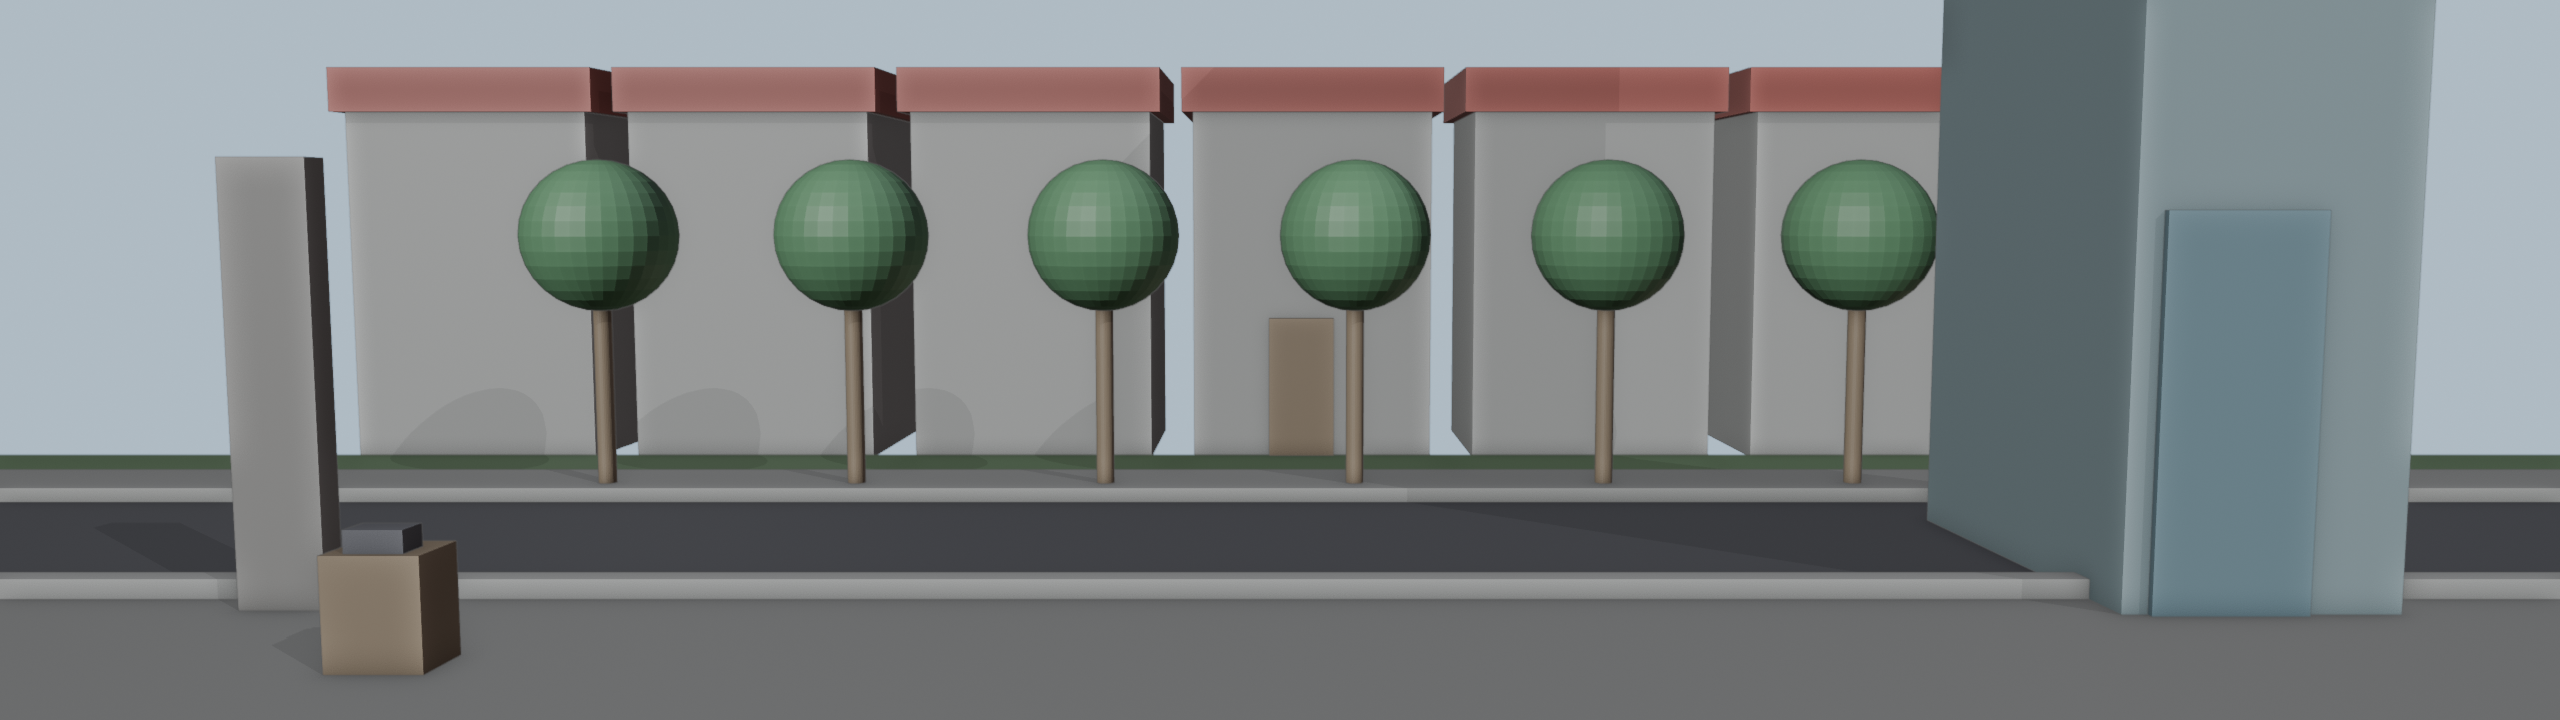
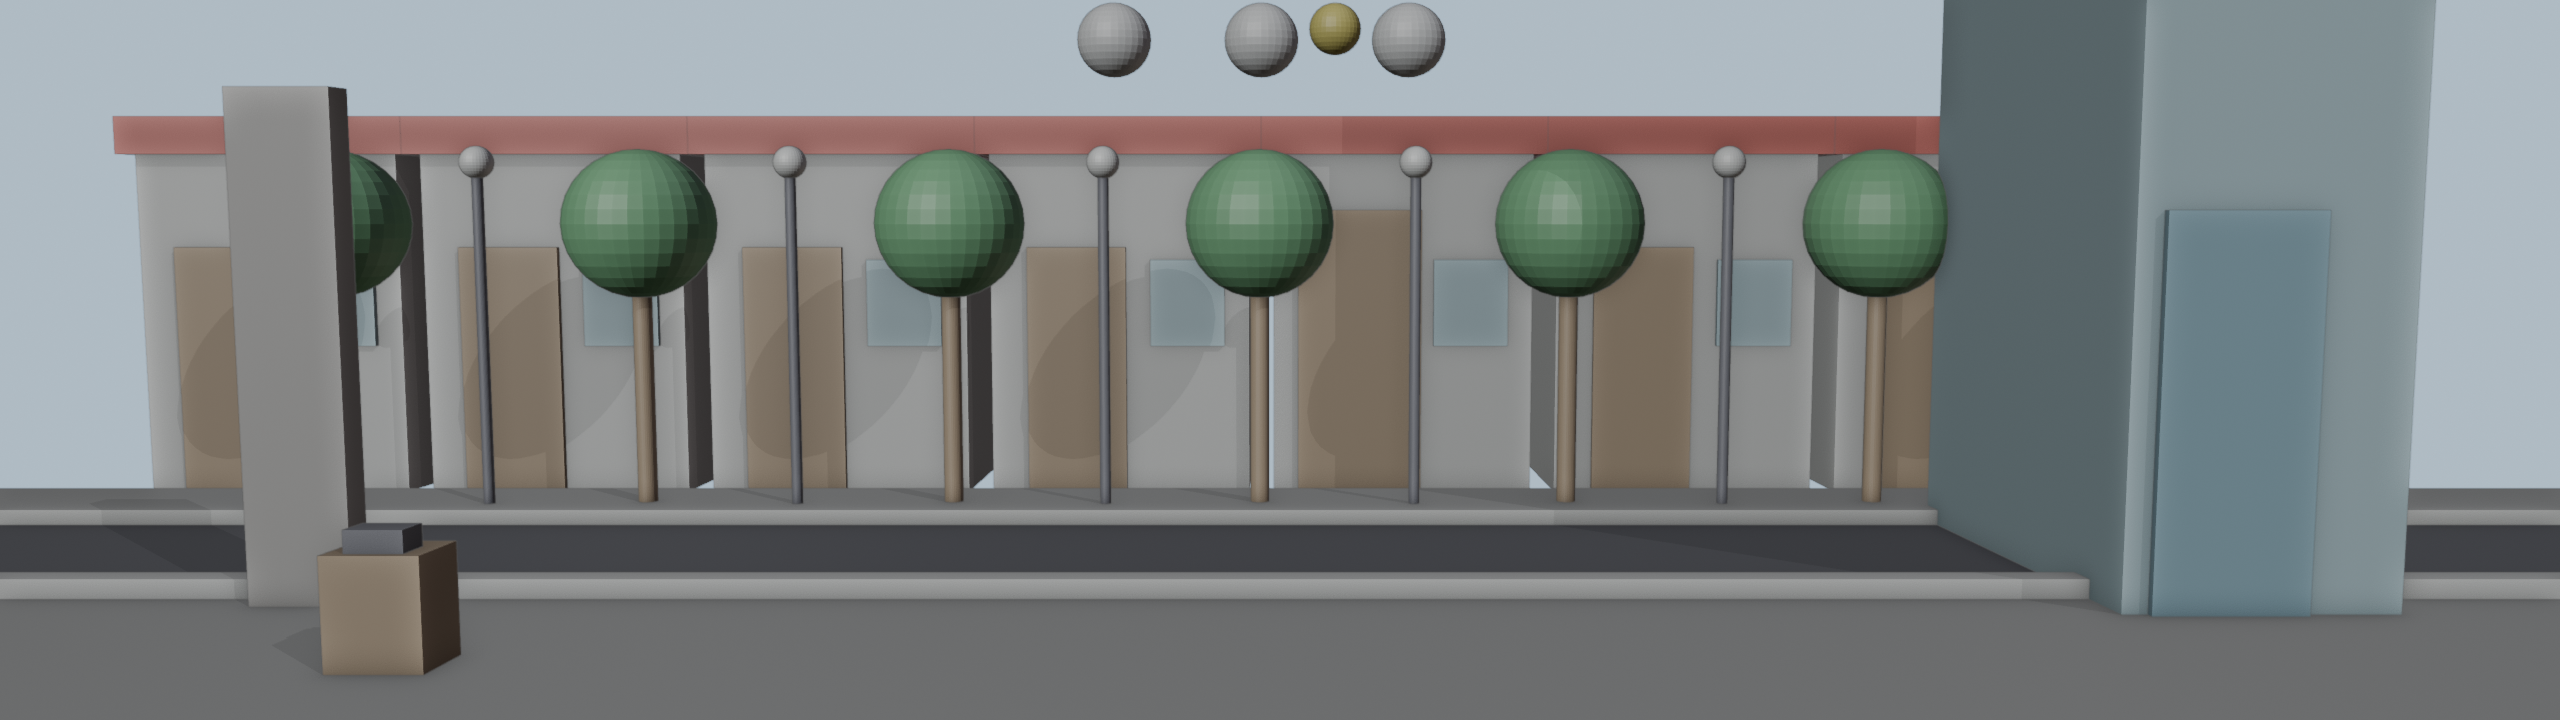
Welt 3: Rohbau Unterstadt und Stadtstraße überarbeitet (Hausfronten mit Fenstern, Bude mit Pfosten, Himmel sichtbar, Häuser näher an der Fahrbahn)

diff --git a/tools/grafik_w3/rohbau_raeume.py b/tools/grafik_w3/rohbau_raeume.py
@@ -117,36 +117,51 @@ def max_massstab():
 # ------------------------------------------------------------------------------------------------
 @raum("unterstadt_strasse", 1280, himmel=NACHT)
 def unterstadt():
-    box(None, 6, -1, 26, 5, 0.02, z=-0.02, col=STRASSE)                      # nasse Straße
-    box(None, 6, 4.0, 26, 0.3, 0.12, col=DUNKEL)                              # Bordstein hinten
-    for i, (x, h) in enumerate([(0.5, 14), (3.0, 10), (5.5, 16), (8.5, 12), (11.0, 15), (13.5, 11)]):
-        box(None, x, 4.3 + (i % 2) * 0.5, 2.6, 2, h, col=(0.22, 0.24, 0.32, 1))
-    # links: Nudelbude
-    box("noodle stall counter (Mr Four behind it)", 1.2, 1.4, 2.2, 0.6, 1.05, col=HOLZ)
-    box("stall roof", 1.2, 1.3, 2.6, 1.6, 0.12, z=2.4, col=ROT)
-    zyl("steaming pot", 0.8, 1.7, 0.28, 0.4, z=1.05, col=DUNKEL)
-    kugel("red paper lantern", 1.9, 1.5, 0.18, 2.1, col=ROT)
+    FASSADE = (0.30, 0.32, 0.40, 1)
+    FENSTER = (0.12, 0.13, 0.18, 1)
+    box(None, 6, -1, 26, 5.2, 0.02, z=-0.02, col=STRASSE)                    # nasse Straße
+    # Häuserfront direkt hinter dem Gehweg (y = 4), mit Lücken für Luke, Gasse, Unterführung
+    for x0, x1 in [(-2, 5.4), (7.0, 9.6), (10.8, 11.0)]:
+        box(None, (x0 + x1) / 2, 4.0, x1 - x0, 0.4, 3.3, col=FASSADE)
+        for fx in [x0 + 0.6 + i * 1.1 for i in range(int((x1 - x0) / 1.1))]:
+            for fz in (2.4,):
+                box(None, fx, 3.98, 0.55, 0.04, 0.8, z=fz, col=FENSTER)
+    box(None, 6.2, 4.6, 1.8, 0.3, 3.0, z=0, col=(0.20, 0.22, 0.28, 1))          # Wand hinter der Luke
+    box(None, 6.2, 4.0, 1.8, 0.4, 0.5, z=2.8, col=FASSADE)                     # Sturz über der Luke
+    # Skyline weit hinten
+    for i, (x, h) in enumerate([(-1, 22), (2.5, 18), (6, 26), (9.5, 20), (13, 24)]):
+        box(None, x, 16 + (i % 2) * 2, 3.2, 2, h, col=(0.18, 0.20, 0.28, 1))
+    # links: Nudelbude (an der Fassade)
+    box("noodle stall counter (Mr Four behind it)", 1.4, 1.6, 2.4, 0.6, 1.05, col=HOLZ)
+    for x in (0.25, 2.55):
+        box(None, x, 1.4, 0.08, 0.08, 2.4, col=HOLZ)
+    box("stall roof", 1.4, 1.3, 2.8, 2.2, 0.12, z=2.4, col=ROT)
+    zyl("steaming pot", 0.9, 1.9, 0.28, 0.4, z=1.05, col=DUNKEL)
+    kugel("red paper lantern", 2.1, 1.4, 0.18, 2.05, col=ROT)
     for i in range(4):
-        zyl(None, 0.4 + i * 0.55, 1.05, 0.17, 0.7, col=DUNKEL)
-    notiz("4 stools", 1.2, 1.0, 0.75)
-    zyl("concrete pillar", 2.75, 1.8, 0.25, 4.0, col=MITTEL)
-    # Mitte: Telefonzelle
-    box("glass phone booth (phone book inside)", 4.3, 2.4, 1.0, 1.0, 2.3, col=GLAS)
-    box("hatch to resistance base (half open)", 6.2, 4.25, 1.4, 0.1, 1.2, col=DUNKEL)
-    box("crashed hovercraft tail fin", 6.4, 4.4, 2.2, 0.4, 0.9, z=3.2, col=(0.5, 0.35, 0.25, 1), rot=-12)
-    box("steam grate", 5.2, 0.8, 0.9, 0.6, 0.02, col=DUNKEL)
-    box("origami unicorn (hand-sized)", 3.5, 0.2, 0.18, 0.08, 0.14, col=HELL)
-    notiz("free spot: street musician", 7.2, 2.2, 0.1)
+        zyl(None, 0.6 + i * 0.55, 1.15, 0.17, 0.7, col=DUNKEL)
+    notiz("4 stools", 1.4, 1.1, 0.75)
+    zyl("concrete pillar (against the wall)", 3.0, 3.6, 0.2, 3.3, col=MITTEL)
+    # Mitte: Telefonzelle, Luke, Heckflosse
+    box("glass phone booth (phone book inside)", 4.3, 2.6, 1.0, 1.0, 2.3, col=GLAS)
+    box(None, 4.3, 2.6, 1.06, 1.06, 0.12, z=2.3, col=DUNKEL)
+    box("low riveted hatch to resistance base (half open)", 6.2, 4.3, 1.4, 0.15, 1.2, col=DUNKEL)
+    box(None, 6.2, 4.0, 1.4, 0.08, 0.9, z=1.2, col=MITTEL, rot=0)
+    box("crashed hovercraft tail fin above hatch", 6.3, 4.4, 2.0, 0.4, 1.3, z=2.9, col=(0.5, 0.35, 0.25, 1), rot=-15)
+    box("steam grate", 5.2, 0.9, 0.9, 0.6, 0.02, col=DUNKEL)
+    box("origami unicorn (hand-sized)", 3.6, 0.2, 0.18, 0.08, 0.14, col=HELL)
+    notiz("free spot: street musician", 7.3, 2.4, 0.1)
     # rechts: Vordach, Plakat, Gasse, Unterführung
-    box("dripping awning (Deckert below)", 8.6, 2.6, 2.0, 1.4, 0.1, z=2.6, col=MAGENTA)
-    box("pizza-slice neon billboard (blank)", 8.6, 4.3, 1.8, 0.1, 1.4, z=3.4, col=MAGENTA)
-    box("alley entrance to pharmacy (green glow)", 10.2, 4.25, 1.1, 0.1, 2.6, col=(0.15, 0.35, 0.2, 1))
-    box("underpass down to lab entrance", 11.6, 3.0, 1.2, 0.2, 2.2, col=(0.12, 0.12, 0.16, 1))
-    figur("Mr Four", 1.2, 1.9, 1.7)
-    figur("crying man", 2.0, 0.9, 1.75)
-    figur("street musician", 7.2, 2.2, 1.75)
+    box("dripping awning (Deckert below)", 8.4, 3.2, 2.2, 1.6, 0.1, z=2.6, col=MAGENTA)
+    box("pizza-slice neon billboard (blank)", 8.4, 3.75, 1.6, 0.1, 0.6, z=2.75, col=MAGENTA)
+    box("alley to pharmacy (green glow at far end)", 10.2, 5.5, 1.2, 0.2, 3.3, col=(0.10, 0.25, 0.15, 1))
+    box("underpass sloping down to lab (round door far back)", 11.8, 6.0, 1.6, 0.2, 2.4, col=(0.08, 0.08, 0.10, 1))
+    box(None, 11.8, 3.7, 1.6, 0.4, 0.9, z=2.4, col=FASSADE)
+    figur("Mr Four", 1.4, 2.1, 1.7)
+    figur("crying man", 2.2, 0.9, 1.75)
+    figur("street musician", 7.3, 2.4, 1.75)
     figur("woman with umbrella", 6.9, 0.8, 1.7)
-    figur("Deckert", 8.6, 2.4, 1.85)
+    figur("Deckert", 8.4, 2.6, 1.85)
     max_massstab()
 
 
@@ -229,25 +244,33 @@ def laboreingang():
 
 @raum("stadtstrasse", 1280, himmel=HIMMEL)
 def stadtstrasse():
-    box(None, 6, -1, 30, 3.2, 0.02, z=-0.02, col=(0.80, 0.80, 0.78, 1))     # Gehweg vorn (Laufband)
+    GEHWEG = (0.80, 0.80, 0.78, 1)
+    box(None, 6, -1, 30, 3.2, 0.02, z=-0.02, col=GEHWEG)                       # Gehweg vorn (Laufband)
     box("curb", 6, 2.2, 30, 0.2, 0.12, col=HELL)
-    box("ROAD for the cars in time (keep clear, cars are animated)", 6, 2.4, 30, 3.2, 0.01, col=STRASSE)
-    box(None, 6, 5.6, 30, 1.0, 0.12, col=(0.80, 0.80, 0.78, 1))              # Gehweg hinten
-    box(None, 6, 6.6, 30, 1.6, 0.02, col=RASEN)                              # Vorgärten
+    box("ROAD for the cars in time (keep clear, cars are animated)", 6, 2.4, 30, 2.2, 0.01, col=STRASSE)
+    box(None, 6, 4.6, 30, 1.0, 0.12, col=GEHWEG)                               # Gehweg hinten
+    box(None, 6, 5.6, 30, 0.6, 0.02, col=RASEN)                                # schmaler Vorgarten
+    for i in range(8):
+        x = -2.2 + i * 2.3
+        oma = (i == 4)
+        box("identical white house" if i == 2 else None, x, 6.2, 2.1, 2, 2.75, col=HELL)
+        box(None, x, 6.1, 2.3, 2.2, 0.3, z=2.75, col=ROT)
+        tuer_b, tuer_h = (1.0, 2.3) if oma else (0.8, 2.0)
+        box("Oracle Granny's house: big front door, lace curtains, door sign" if oma else None,
+            x - 0.35, 6.15, tuer_b, 0.05, tuer_h, col=HOLZ)
+        for fx in (x + 0.55,):
+            box(None, fx, 6.15, 0.6, 0.05, 0.7, z=1.2, col=GLAS)
     for i in range(7):
-        x = -1.5 + i * 2.6
-        box("identical white house" if i == 1 else None, x, 8.2, 2.2, 2, 3.2, col=HELL)
-        box(None, x, 8.1, 2.4, 2.2, 0.4, z=3.2, col=ROT)
-    box("Oracle Granny's house: door, lace curtains, door sign", 6.2, 8.15, 0.6, 0.05, 1.3, col=HOLZ)
-    for i in range(6):
-        x = 0.6 + i * 2.0
-        zyl("identical round tree + lamp" if i == 0 else None, x, 5.9, 0.07, 1.6, col=HOLZ)
-        kugel(None, x, 5.9, 0.6, 2.1, col=GRUEN)
-    for x in (2.0, 6.0, 10.0):
-        kugel("same cloud x3" if x == 2.0 else None, x, 30, 1.6, 12, col=(1, 1, 1, 1))
-    kugel("sun", 9.5, 30, 1.2, 15, col=GELB)
-    # vorn links: Nachttisch als eigenes Vordergrundteil, Gasse
-    box("narrow too-clean alley (arrival, left edge)", 0.25, 1.9, 0.5, 0.2, 2.6, col=MITTEL)
+        x = -1.05 + i * 2.3
+        zyl("identical round tree + street lamp" if i == 1 else None, x, 5.0, 0.07, 1.8, col=HOLZ)
+        kugel(None, x, 5.0, 0.55, 2.2, col=GRUEN)
+        zyl(None, x + 1.15, 4.9, 0.04, 2.6, col=DUNKEL)
+        kugel(None, x + 1.15, 4.9, 0.12, 2.65, col=HELL)
+    for x in (1.5, 5.5, 9.5):
+        kugel("same cloud x3" if x == 1.5 else None, x, 40, 1.0, 6.9, col=(1, 1, 1, 1))
+    kugel("sun", 7.5, 40, 0.7, 7.2, col=GELB)
+    # vorn links: Gasse und Nachttisch
+    box("narrow too-clean alley (arrival, left edge)", 0.3, 2.0, 0.6, 0.2, 3.0, col=MITTEL)
     box("bedside table + clock radio (own front piece)", 1.5, 0.5, 0.5, 0.4, 0.6, col=HOLZ)
     box(None, 1.5, 0.55, 0.3, 0.2, 0.12, z=0.6, col=DUNKEL)
     # rechts: Büroturm auf unserer Seite
